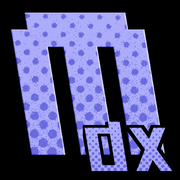
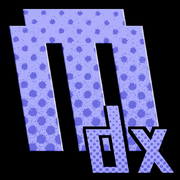
fix: center the home hero, show the mdx wordmark, and follow the repo rename (#2)

Changed region(s): [[0.0278, 0.0278, 0.9722, 0.9722]]

diff --git a/.vitepress/theme/style.css b/.vitepress/theme/style.css
@@ -383,7 +383,7 @@ body {
 
 .VPHero .image {
     order: 0;
-    margin: 0;
+    margin: 0 0 24px;
 }
 
 .VPHero .image-container {
@@ -428,6 +428,20 @@ body {
 
 .VPHero .main {
     margin: 0 auto;
+    width: 100%;
+    max-width: 100% !important;
+    display: flex;
+    flex-direction: column;
+    align-items: center;
+}
+
+.VPHero .heading,
+.VPHero .name,
+.VPHero .text,
+.VPHero .tagline {
+    margin-left: auto !important;
+    margin-right: auto !important;
+    text-align: center;
 }
 
 .DocSearch {

diff --git a/.vitepress/site.ts b/.vitepress/site.ts
@@ -5,7 +5,7 @@ export const SITE_URL = "https://momentum-dx.project516.dev";
 export const SITE_HOST = "momentum-dx.project516.dev";
 
 export const FIRMWARE_REPO = "momentum-dx/Momentum-Firmware-dx";
-export const WEBSITE_REPO = "momentum-dx/v2.momentum-fw.dev";
+export const WEBSITE_REPO = "momentum-dx/website";
 
 export const MOMENTUM_URL = "https://github.com/Next-Flip/Momentum-Firmware";
 export const OFW_URL = "https://github.com/flipperdevices/flipperzero-firmware";

diff --git a/wiki/index.md b/wiki/index.md
@@ -34,7 +34,7 @@ next:
 <!-- TODO: Commented out because we don't need the translations for now -->
 <!-- <div class="mntm custom-block"> -->
 
-<!-- You can find this wiki in different languages below. If you want to help us out with localization: [Next-Flip/v2.momentum-fw.dev](https://github.com/Next-Flip/v2.momentum-fw.dev/tree/dev/.vitepress/i18n). -->
+<!-- You can find this wiki in different languages below. If you want to help us out with localization: [momentum-dx/website](https://github.com/momentum-dx/website/tree/dev/.vitepress/i18n). -->
 
 <!-- LOCALE_LINKS_START -->
 <!-- LOCALE_LINKS_END -->

diff --git a/.vitepress/i18n/README.md b/.vitepress/i18n/README.md
@@ -178,7 +178,7 @@ This ensures that:
 
 When contributing translations:
 
-1. Fork the repository [here](https://github.com/Next-Flip/v2.momentum-fw.dev/fork)
+1. Fork the repository [here](https://github.com/momentum-dx/website/fork)
 2. Create a new branch for your translation
 3. Follow the steps above to add your language
 4. Submit a pull request with your changes

diff --git a/README.md b/README.md
@@ -1,4 +1,4 @@
-# v2.momentum-fw.dev
+# Momentum-dx website
 
 Source of the Momentum-dx website at <https://momentum-dx.project516.dev>. Momentum-dx is a bleeding-edge fork of Momentum Firmware for the Flipper Zero. The site is an unofficial fork of the Momentum website, built with VitePress and Vue 3. It has the web updater, release pages, asset packs and the wiki.
 

diff --git a/index.md b/index.md
@@ -10,6 +10,9 @@ head:
 
 hero:
     name: "Momentum-dx"
+    image:
+        src: /logos/mdx_wordmark.png
+        alt: Momentum-dx logo
     tagline: "a bleeding-edge fork of Momentum Firmware"
 
 features:
